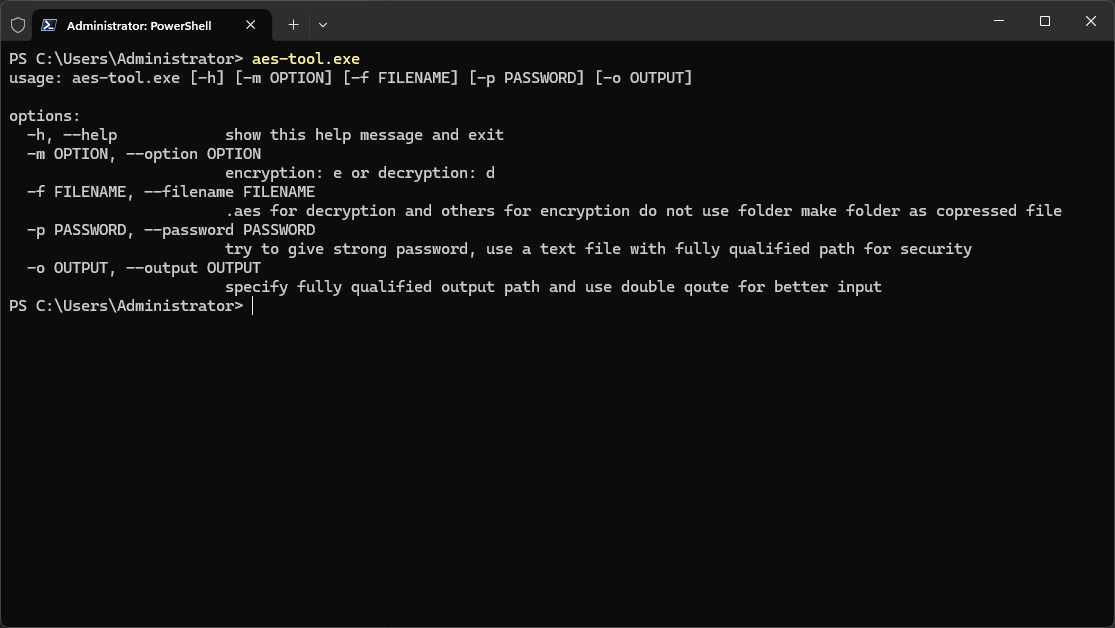
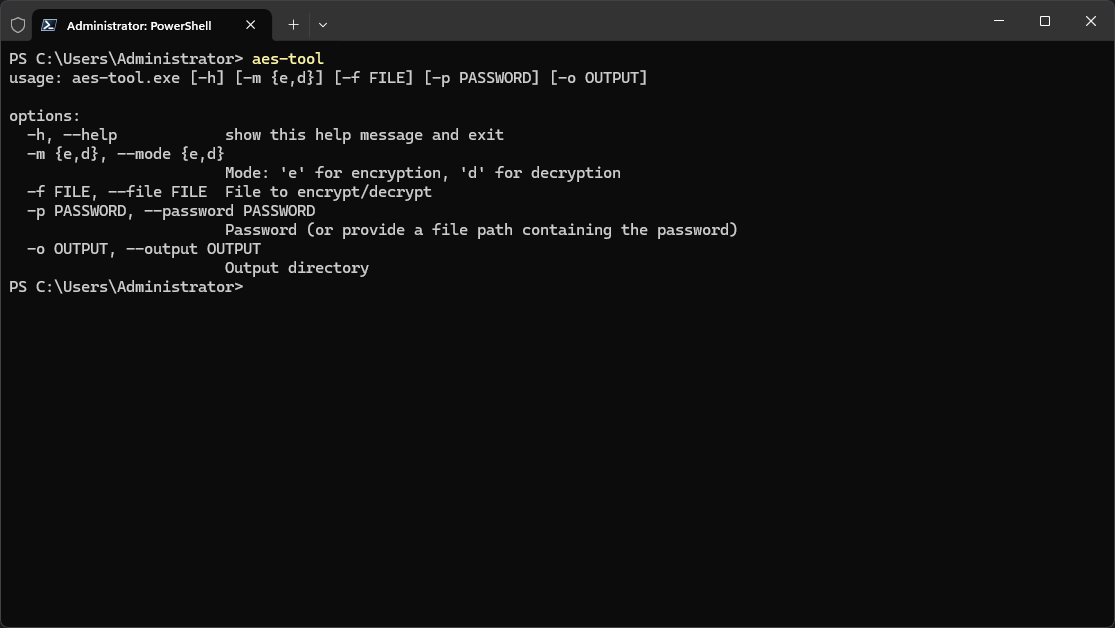
[UPDATE]: make more secure and try to optimize

Changed region(s): [[0.0, 0.2118, 0.9453, 0.5143], [0.2439, 0.0908, 0.6099, 0.1513]]

diff --git a/src/main.py b/src/main.py
@@ -1,79 +1,159 @@
-from pyAesCrypt import encryptStream, decryptStream
 import argparse
 import sys
-from os import stat, remove, path
 import getpass
+import os
 from pathlib import Path
+from Crypto.Cipher import AES
+from Crypto.Protocol.KDF import PBKDF2
+from Crypto.Random import get_random_bytes
+import psutil
+import time
 
 
-# Set up argument parser
-parser = argparse.ArgumentParser()
-parser.add_argument('-m','--option', type=str, help="encryption: e or decryption: d")
-parser.add_argument('-f', '--filename', type=str, help=".aes for decryption and others for encryption do not use folder make folder as copressed file")
-parser.add_argument('-p', '--password', type=str, help ="try to give strong password, use a text file with fully qualified path for security")
-parser.add_argument('-o', '--output', type=str, help ="specify fully qualified output path and use double qoute for better input", default="./")
-args = parser.parse_args()
+# Constants
+SALT_SIZE = 16
+KEY_SIZE = 32
+NONCE_SIZE = 12
+TAG_SIZE = 16
+ITERATIONS = 100_000
 
-def encryption(file, bufferSize, password):
-    # encrypt
+def get_dynamic_buffer_size(file_path):
+    """Determine the buffer size based on file size dynamically."""
     try:
-        com_password = getpass.getpass("Confirm the password: ")
-        if password == com_password:
-            file1 = Path(file).name
-            file1 = output+file1
-            file1 = f"{file1}.aes"
-            with open(file, "rb") as fIn:
-                with open(file1, "wb") as fOut:
-                    encryptStream(fIn, fOut, password, bufferSize)
-            print(f"Encryption complete! file saved at: {file1}")
-        else:
-            print("Encryption failed! Password not matched! Try again")
+        file_size = os.path.getsize(file_path)
     except FileNotFoundError:
-        print("File not found!")
-    except PermissionError:
-        print("It is maybe a directory! permission error!")
+        print("Error: File not found!")
+        sys.exit(1)
+    total_ram = psutil.virtual_memory().total
+    print(f"File path: {file_path}\nFile size: {file_size} bytes\nTotal system ram: {total_ram} bytes")
+    if total_ram <= 4 * 1024 * 1024 * 1024:  # 4 GB RAM
+        return 128 * 1024  # 128 KB
+    elif total_ram <= 8 * 1024 * 1024 * 1024:  # 8 GB RAM
+        return 256 * 1024  # 256 KB
+    else:
+        if file_size < 500 * 1024 * 1024:  # < 500 MB
+            return 64 * 1024   # 64 KB
+        elif file_size < 2 * 1024 * 1024 * 1024:  # < 2 GB
+            return 256 * 1024  # 256 KB
+        elif file_size < 10 * 1024 * 1024 * 1024:  # < 10 GB
+            return 1 * 1024 * 1024  # 1 MB
+        else:  # 10+ GB
+            return 4 * 1024 * 1024  # 4 MB
 
-def decryption(file, bufferSize, password):
-    #decrypt
-    with open(file, "rb") as fIn:
-        try:
-            file1 = Path(file).name
-            file1 = Path(file).stem
-            file1 = output+file1
-            with open(file1, "wb") as fOut:
-                # decrypt file stream
-                decryptStream(fIn, fOut, password, bufferSize)
-            print(f"Decryption complete! file saved at: {file1}")
-        except ValueError:
-            # remove output file on error
-            remove(file1)
-            print("Decryption failed!")
-        except FileNotFoundError:
-            print("File not found!")
+def derive_key(password: str, salt: bytes) -> bytes:
+    """Derive a 256-bit key from the password using PBKDF2."""
+    return PBKDF2(password, salt, dkLen=KEY_SIZE, count=ITERATIONS)
 
+def encrypt_file(file_path, buffersize, password, output_dir):
+    """Encrypt a file using AES-GCM (Authenticated Encryption)."""
+    start = time.perf_counter() # starting time counter
+    try:
+        salt = get_random_bytes(SALT_SIZE)
+        key = derive_key(password, salt)
+        nonce = get_random_bytes(NONCE_SIZE)
+        
+        cipher = AES.new(key, AES.MODE_GCM, nonce=nonce)
+        encrypted_file = os.path.join(output_dir, Path(file_path).name + ".aes")
+
+        with open(file_path, "rb") as f_in, open(encrypted_file, "wb") as f_out:
+            f_out.write(salt + nonce)  # Store salt + nonce for decryption
+            while chunk := f_in.read(buffersize):
+                f_out.write(cipher.encrypt(chunk))
+            tag = cipher.digest()
+            f_out.write(tag)  # Store tag at the end
+        ending = time.perf_counter() # end time counter
+        print(f"Encryption successful! File saved at: {encrypted_file}")
+        print(f"Total encryption time: {ending-start:.6f} seconds")
+
+    except FileNotFoundError:
+        print("Error: File not found.")
+    except Exception as e:
+        print(f"Encryption failed: {e}")
+
+def decrypt_file(file_path, password, output_dir):
+    """Decrypt a file using AES-GCM (Authenticated Decryption)."""
+    start = time.perf_counter() # starting time counter
+    try:
+        with open(file_path, "rb") as f_in:
+            salt = f_in.read(SALT_SIZE)
+            nonce = f_in.read(NONCE_SIZE)
+            key = derive_key(password, salt)
+
+            cipher = AES.new(key, AES.MODE_GCM, nonce=nonce)
+
+            decrypted_file = os.path.join(output_dir, Path(file_path).stem)
+
+            with open(decrypted_file, "wb") as f_out:
+                ciphertext = f_in.read()
+                tag = ciphertext[-TAG_SIZE:]  # Extract authentication tag
+                ciphertext = ciphertext[:-TAG_SIZE]  # Remove tag from ciphertext
+                f_out.write(cipher.decrypt_and_verify(ciphertext, tag))
+                
+            ending = time.perf_counter() # end time counter
+            print(f"Decryption successful! File saved at: {decrypted_file}")
+            print(f"Total encryption time: {ending-start:.6f} seconds")
+
+    except ValueError:
+        print("Error: Decryption failed! Incorrect password or corrupted file.")
+    except FileNotFoundError:
+        print("Error: File not found.")
+    except Exception as e:
+        print(f"Decryption failed: {e}")
+
+def main():
+    #arguments
+    parser = argparse.ArgumentParser()
+    parser.add_argument('-m', '--mode', type=str, choices=['e', 'd'], help="Mode: 'e' for encryption, 'd' for decryption")
+    parser.add_argument('-f', '--file', type=str, help="File to encrypt/decrypt")
+    parser.add_argument('-p', '--password', type=str, help="Password (or provide a file path containing the password)")
+    parser.add_argument('-o', '--output', type=str, default="./", help="Output directory")
+    args = parser.parse_args()
+
+    if not args.mode or not args.file:
+        parser.print_help()
+        sys.exit(2)
+    # Resolve password
+    if args.password and os.path.isfile(args.password):
+        with open(args.password, "r") as f:
+            password = f.readline().strip()
+        confirm_password = password
+
+    elif args.password:
+        confirm_password = getpass.getpass("Confirm password: ")
+
+    else:
+        if args.mode == 'e':
+            password = getpass.getpass("Enter the password: ")
+            confirm_password = getpass.getpass("Confirm password: ")
+        else:
+            password = getpass.getpass("Enter the password: ")
+            confirm_password = password
+        
+    if password != confirm_password:
+        print("Error: Password do not match.")
+        sys.exit(3)
+    else:
+        print("Password matched!")
+
+    # Ensure output directory exists
+    os.makedirs(args.output, exist_ok=True)
+
+    if args.mode == "e":
+        buffersize= get_dynamic_buffer_size(args.file)
+        print(f"Buffer size: {buffersize}")
+        encrypt_file(args.file, buffersize, password, args.output)
+    elif args.mode == "d":
+        file_size = os.path.getsize(args.file)
+        total_ram = psutil.virtual_memory().total
+        print(f"File path: {args.file}\nFile size: {file_size} bytes\nTotal system ram: {total_ram} bytes")
+        if not args.file.endswith(".aes"):
+            print("Error: Decryption requires a '.aes' file.")
+            sys.exit(3)
+        decrypt_file(args.file, password, args.output)
+
+    # Wipe password from memory
+    del password
+    del confirm_password
 
 if __name__ == "__main__":
-
-    bufferSize = 64 * 1024
-
-    if not args.option or not args.filename or not args.password:
-        parser.print_help()
-        sys.exit(1)
-    else:
-        option = args.option.strip()
-        filename = args.filename.strip()
-        password = args.password
-        output = args.output
-
-        if path.isfile(password):
-            password = open(password, "r")
-            password = password.readline()
-        if option == "d":
-            if filename.endswith(".aes"):
-                decryption(filename, bufferSize, password)
-            else:
-                print("Decryption Failed! error: It is not .aes file!")
-        elif option == "e":
-            encryption(filename, bufferSize, password)
-        else:
-            print("Wrong Input!")
+    main()

diff --git a/src/old_main.py b/src/old_main.py
@@ -1,0 +1,79 @@
+from pyAesCrypt import encryptStream, decryptStream
+import argparse
+import sys
+from os import stat, remove, path
+import getpass
+from pathlib import Path
+
+
+# Set up argument parser
+parser = argparse.ArgumentParser()
+parser.add_argument('-m','--option', type=str, help="encryption: e or decryption: d")
+parser.add_argument('-f', '--filename', type=str, help=".aes for decryption and others for encryption do not use folder make folder as copressed file")
+parser.add_argument('-p', '--password', type=str, help ="try to give strong password, use a text file with fully qualified path for security")
+parser.add_argument('-o', '--output', type=str, help ="specify fully qualified output path and use double qoute for better input", default="./")
+args = parser.parse_args()
+
+def encryption(file, bufferSize, password):
+    # encrypt
+    try:
+        com_password = getpass.getpass("Confirm the password: ")
+        if password == com_password:
+            file1 = Path(file).name
+            file1 = output+file1
+            file1 = f"{file1}.aes"
+            with open(file, "rb") as fIn:
+                with open(file1, "wb") as fOut:
+                    encryptStream(fIn, fOut, password, bufferSize)
+            print(f"Encryption complete! file saved at: {file1}")
+        else:
+            print("Encryption failed! Password not matched! Try again")
+    except FileNotFoundError:
+        print("File not found!")
+    except PermissionError:
+        print("It is maybe a directory! permission error!")
+
+def decryption(file, bufferSize, password):
+    #decrypt
+    with open(file, "rb") as fIn:
+        try:
+            file1 = Path(file).name
+            file1 = Path(file).stem
+            file1 = output+file1
+            with open(file1, "wb") as fOut:
+                # decrypt file stream
+                decryptStream(fIn, fOut, password, bufferSize)
+            print(f"Decryption complete! file saved at: {file1}")
+        except ValueError:
+            # remove output file on error
+            remove(file1)
+            print("Decryption failed!")
+        except FileNotFoundError:
+            print("File not found!")
+
+
+if __name__ == "__main__":
+
+    bufferSize = 64 * 1024
+
+    if not args.option or not args.filename or not args.password:
+        parser.print_help()
+        sys.exit(1)
+    else:
+        option = args.option.strip()
+        filename = args.filename.strip()
+        password = args.password
+        output = args.output
+
+        if path.isfile(password):
+            password = open(password, "r")
+            password = password.readline()
+        if option == "d":
+            if filename.endswith(".aes"):
+                decryption(filename, bufferSize, password)
+            else:
+                print("Decryption Failed! error: It is not .aes file!")
+        elif option == "e":
+            encryption(filename, bufferSize, password)
+        else:
+            print("Wrong Input!")

diff --git a/README.md b/README.md
@@ -1,38 +1,34 @@
 # AEScrypt_Python
-AEScrypt windows terminal tool develop with python. Current AEScrypt software is license based for windows user. So, I develop it for my personal use. If there any buffer issue for large file like more than 100MB. I will fix it and update here. Future i will add `bufferSize` option that will prevent this issue.
+AEScrypt windows terminal tool develop with python. Current AEScrypt software is license based for windows user. So, I develop it for my personal use.
 
+## About New version
+
+<ul>
+  <li>Dynamic buffer size to adjust with system requirment. So, it will help you to achieve the best performance while encrypt the file.</li>
+  <li>Make more secure. You have to use same tool to encrypt and decrypt your file.
+</ul>
 
 ## Usages
 
 1. Encryption:
 
 ```bash
-./AEScrypt_Python/src/dist/aes-tool.exe -m e -f ./weights.zip -p ./AEScrypt_Python/src/pass.txt 
+aes-tool.exe -m e -f ./weights.zip -p ./AEScrypt_Python/src/pass.txt -p ./pass.txt -o ./
 ```
-You can type direct password on `-p` option. But best way is use a file to keep secret. Another point you can use `-m`, `-f`, `-p` and `-o` as `--option`, `--filename`, `--password` and `--output` respectively.<br>
-Use `-o` <br>
 
 2. Decryption:
 
 ```bash
-./AEScrypt_Python/src/dist/aes-tool.exe -m d -f ./weights.zip.aes -p ./AEScrypt_Python/src/pass.txt -o ./AEScrypt_Python/src/
+aes-tool.exe -m d -f ./weights.zip.aes -p ./pass.txt -o ./
 ```
-Now decrypted file will stored in specified directory in `-o` option instead of current directory. If you not specify the output path it will saved in current directory. 
 
-## Manual
+## Tool
 
-usage: `aes-tool.exe [-h] [-m OPTION] [-f FILENAME] [-p PASSWORD] [-o OUTPUT]`
+You can download this tool's binary file from <a href="https://drive.google.com/drive/folders/1f-4FB7cmBeaqILe8Ey3wUIWYuNkAvdVP?usp=sharing">here</a>.
 
-options:<br>
-  `-h` `--help`: show this help message and exit<br>
-  `-m`: OPTION, `--option`: OPTION : encryption: `e` or decryption: `d`<br>
-  `-f`: FILENAME, `--filename`:FILENAME : .aes for decryption and others for encryption do not use folder make folder as copressed file.<br>
-  `-p`: PASSWORD, `--password` : PASSWORD : try to give strong password, use a text file with fully qualified path for security.<br>
-  `-o` OUTPUT, `--output OUTPUT`: specify fully qualified output path and use double qoute for better input.<br>
+## Setup
 
-  ## Tools
-You can download this tools from <a href="https://drive.google.com/drive/folders/1f-4FB7cmBeaqILe8Ey3wUIWYuNkAvdVP?usp=sharing">here</a>.
-<br>Download This zip file. Now, move that folder to the `Program Files`. Default it is in `C:` drive.<br>
+<br>Download This zip file and extract it. Now, move that folder to the `Program Files`. Default it is in `C:` drive.<br>
 Now move open `Edit the system environment variables` then follow those images
 
 1. Go `Advanced` tab and click `Environment variables...`
@@ -43,11 +39,11 @@ Now move open `Edit the system environment variables` then follow those images
 
 <img src='resources/Capture1.PNG'></img>
 
-3. Click `New` now paste the `AES_PY_TOOL` folder path where you stored it. in my case see the third line. Now, click `OK` and close the program.
+3. Click `New` now paste the `AES_PY_TOOL` folder path where you stored it. in my case see the third line. Now, click `OK` and click `OK` to close the program.
 
 <img src='resources/Capture2.PNG'></img>
 
-4. Open `Powershell` or `Windows Terminal` then type `aes-tool.exe`. You will see this.
+4. Open `Powershell` or `Windows Terminal` then type `aes-tool.exe`. You will see the manual page.
 
 <img src='resources/Capture3.PNG'></img>
 
